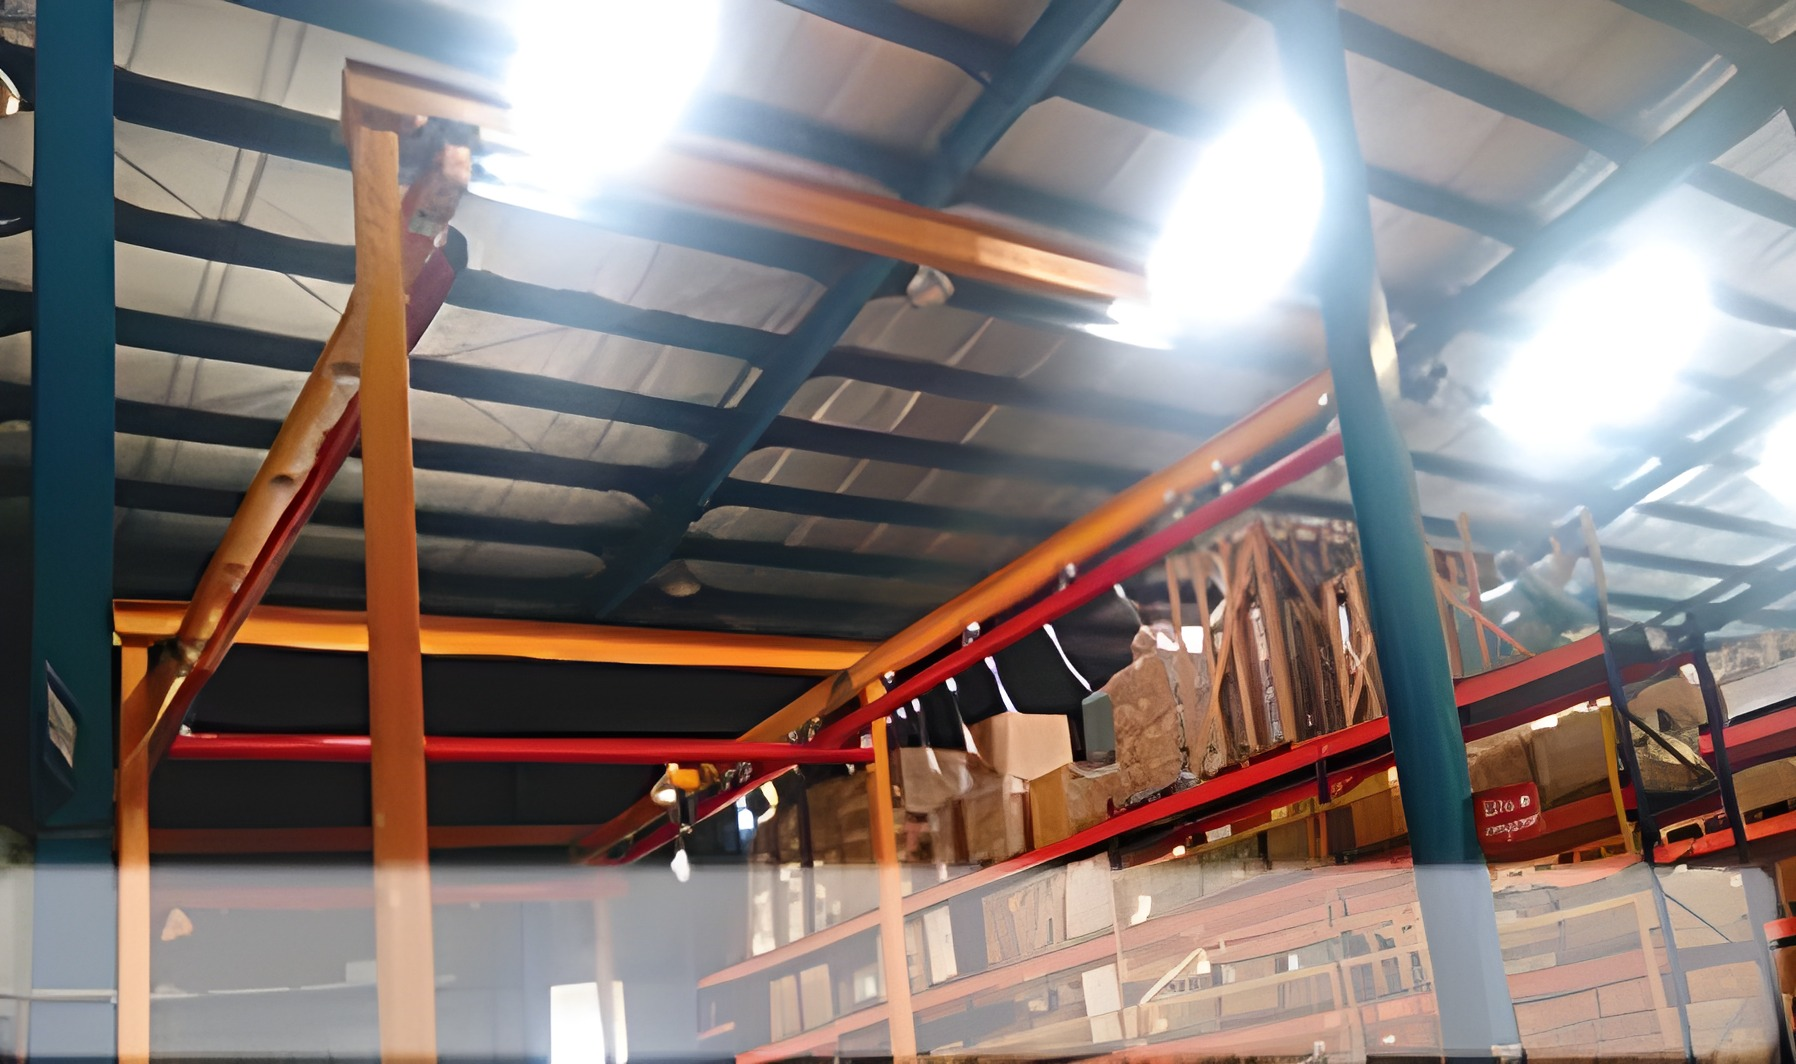
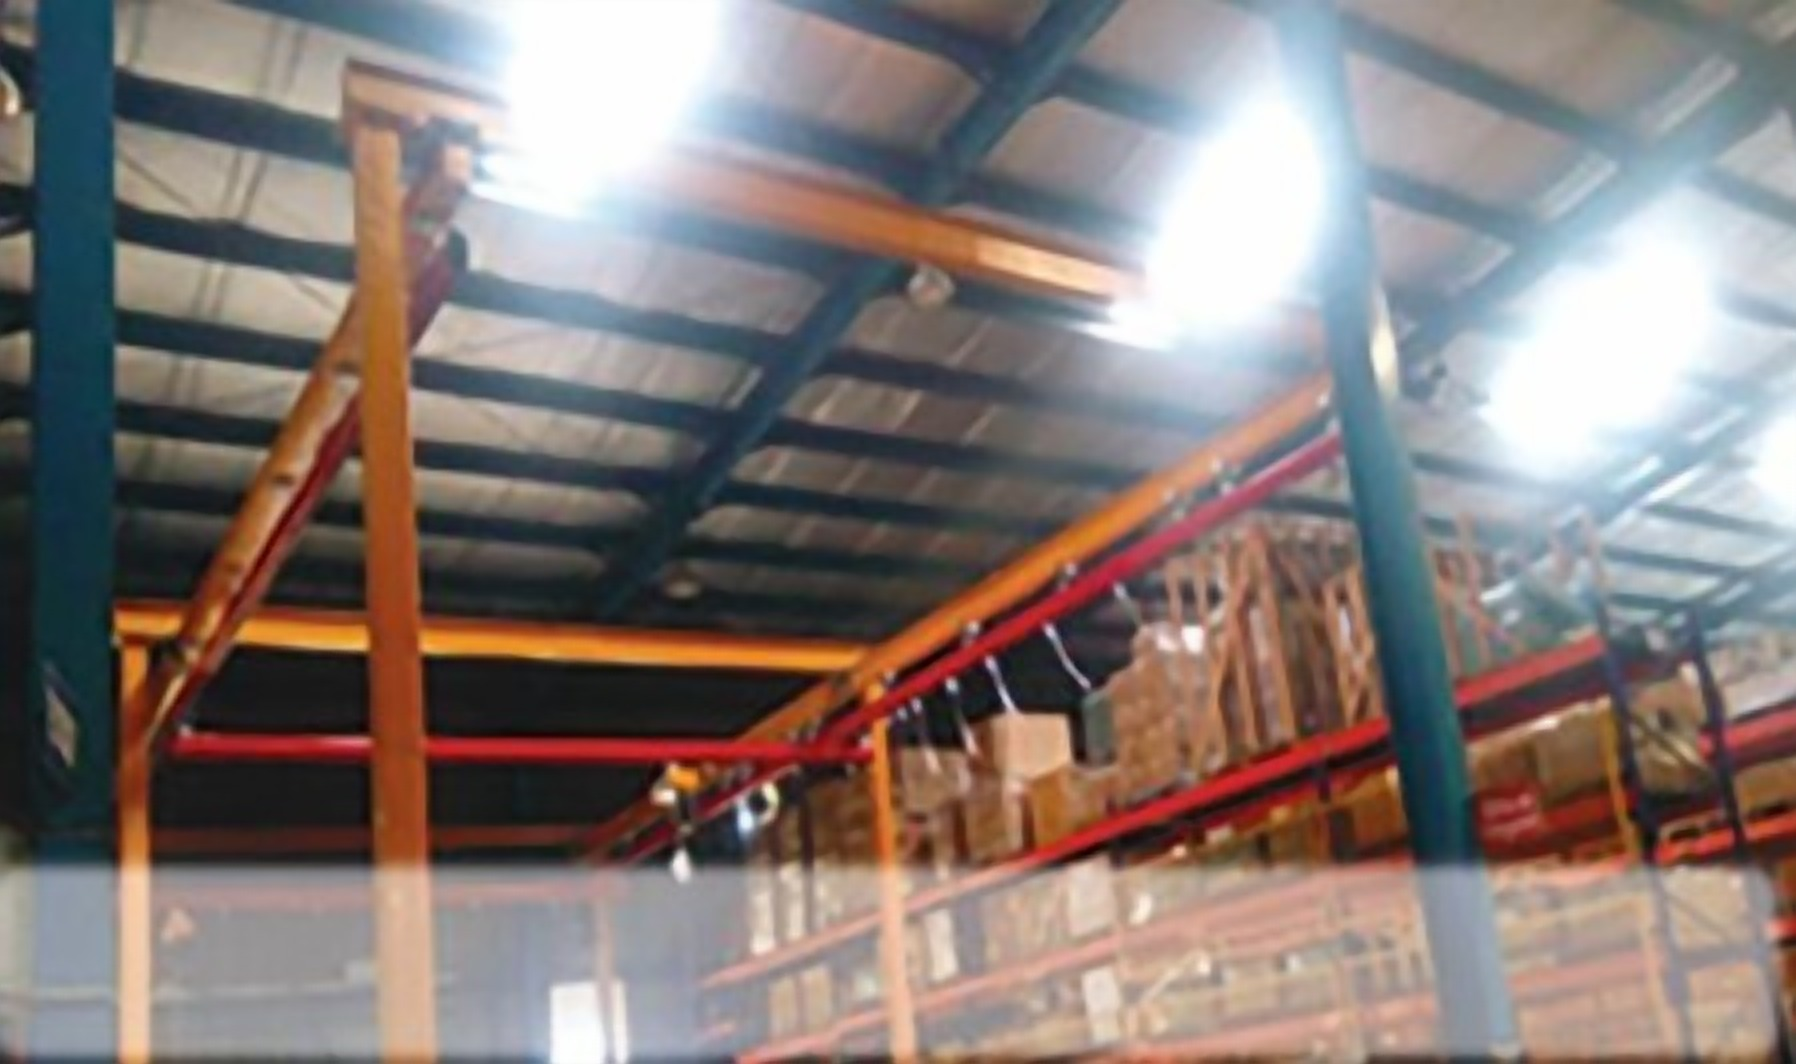
Fix hero repetition and replace hallucinated AI upscales with honest ones
- Hero and flagship spotlight now use the two genuinely high-resolution real photos (installation-01/02) instead of AI-upscaled ones -- puts the best real assets in the most prominent placements
- Real-ESRGAN had hallucinated fake gibberish text and warped geometry on 6 images where the source had heavily blurred text/labels; replaced with a lighter ESPCN model that doesn't fabricate detail -- softer but honest instead of sharp but fake
- Removed air-balancer.jpg entirely; its only source had a marketing annotation box baked in that couldn't be cropped out without losing the product -- reverted that page section to text-only rather than ship a compromised image
- Gallery images reshuffled so no photo repeats on the same page

diff --git a/index.html b/index.html
@@ -82,7 +82,7 @@
       </div>
     </div>
     <div class="crane-stage">
-      <img class="crane-photo" src="images/installation-06-single-girder.jpg" alt="GS Tool & Components X-Y rail system installed on a factory floor, SWL 500 Kg">
+      <img class="crane-photo" src="images/installation-01.jpg" alt="GS Tool & Components X-Y rail system installed on a factory floor, SWL 500 Kg">
     </div>
   </div>
 </section>
@@ -100,7 +100,7 @@
     <div class="spotlight">
       <div class="spotlight-grid">
         <div class="spotlight-media">
-          <img src="images/installation-03-cnc-loading.jpg" alt="GS Tool & Components X-Y aluminum rail system for loading and unloading on CNC machines" loading="lazy">
+          <img src="images/installation-02.jpg" alt="Close-up of GS Tool & Components branded steel rail beams rated SWL 500 Kg" loading="lazy">
         </div>
         <div class="spotlight-content">
           <div class="eyebrow">Flagship System</div>
@@ -179,12 +179,12 @@
     </div>
     <div class="gallery-grid">
       <div class="gallery-item">
-        <img src="images/installation-01.jpg" alt="Twin X-Y rail system with electric hoist, SWL 500 Kg, manufactured and installed by GS Tool & Components for a Faridabad-based client" loading="lazy">
-        <div class="gallery-caption"><strong>Twin-Rail X-Y System — SWL 500 Kg</strong>Manufactured and installed for a Faridabad-based client. Floor-to-overhead mounted, electric hoist and trolley, with festoon cabling for the control pendant.</div>
+        <img src="images/installation-03-cnc-loading.jpg" alt="GS Tool & Components X-Y aluminum rail system for loading and unloading on CNC machines" loading="lazy">
+        <div class="gallery-caption"><strong>CNC Loading / Unloading</strong>Aluminum X-Y rail positioned for pick-and-place loading and unloading directly at CNC machines.</div>
       </div>
       <div class="gallery-item">
-        <img src="images/installation-02.jpg" alt="Close-up of GS Tool & Components branded steel rail beams rated SWL 500 Kg" loading="lazy">
-        <div class="gallery-caption"><strong>Rail Beam Detail — SWL 500 Kg per Rail</strong>Steel run rail and bridge rail assembly from the same Faridabad installation, GS Tool &amp; Components branded.</div>
+        <img src="images/installation-06-single-girder.jpg" alt="X-Y rail system for a 1 ton single girder installation" loading="lazy">
+        <div class="gallery-caption"><strong>1-Ton Single Girder Setup</strong>X-Y rail sized and mounted for a single girder, 1-ton capacity installation.</div>
       </div>
       <div class="gallery-item">
         <img src="images/installation-04-pillar-mounted.jpg" alt="X-Y rail system on a pillar-mounted structure" loading="lazy">

diff --git a/products/balancers.html b/products/balancers.html
@@ -72,22 +72,13 @@
         <p>Works on a zero-gravity principle so a component can be repositioned easily by hand.</p>
       </div>
     </div>
-    <div class="spotlight">
-      <div class="spotlight-grid">
-        <div class="spotlight-media">
-          <img src="../images/air-balancer.jpg" alt="Air balancer unit supplied by GS Tool & Components" loading="lazy">
-        </div>
-        <div class="spotlight-content">
-          <ul class="feature-list">
-            <li><span class="dot">●</span><div><strong>Zero-Gravity Handling</strong><span>Component can be shifted and repositioned with minimal operator effort</span></div></li>
-            <li><span class="dot">●</span><div><strong>Simultaneous Stop &amp; Function</strong><span>Can be shifted to stop and function at the same time</span></div></li>
-            <li><span class="dot">●</span><div><strong>Capacity Range</strong><span>Standard models from 50–270 Kg</span></div></li>
-            <li><span class="dot">●</span><div><strong>Transport Speed</strong><span>1–1000 mm/sec, in up and down travel</span></div></li>
-            <li><span class="dot">●</span><div><strong>Low Running Cost</strong><span>Minimal maintenance, small air consumption (0.13 m³/stroke)</span></div></li>
-          </ul>
-        </div>
-      </div>
-    </div>
+    <ul class="feature-list">
+      <li><span class="dot">●</span><div><strong>Zero-Gravity Handling</strong><span>Component can be shifted and repositioned with minimal operator effort</span></div></li>
+      <li><span class="dot">●</span><div><strong>Simultaneous Stop &amp; Function</strong><span>Can be shifted to stop and function at the same time</span></div></li>
+      <li><span class="dot">●</span><div><strong>Capacity Range</strong><span>Standard models from 50–270 Kg</span></div></li>
+      <li><span class="dot">●</span><div><strong>Transport Speed</strong><span>1–1000 mm/sec, in up and down travel</span></div></li>
+      <li><span class="dot">●</span><div><strong>Low Running Cost</strong><span>Minimal maintenance, small air consumption (0.13 m³/stroke)</span></div></li>
+    </ul>
   </div>
 </section>
 
